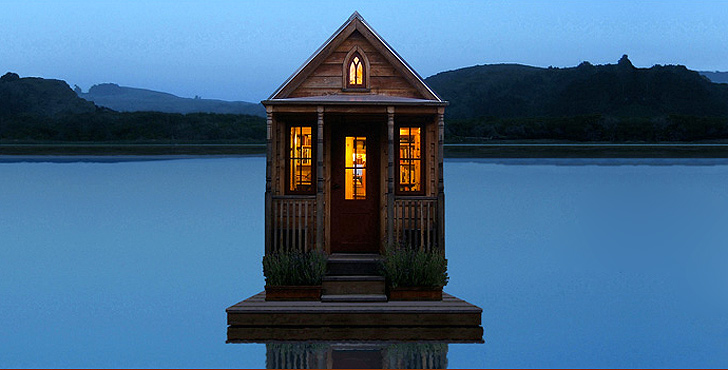
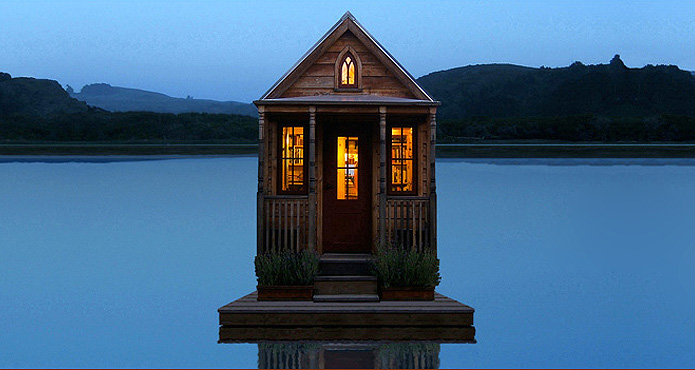
.

diff --git a/index.html b/index.html
@@ -17,7 +17,7 @@
 
 <body>
 
-	<div class="main-area center-text" style="background-image:url(images/rondavel2.jpg);">
+	<div class="main-area center-text" style="background-image:url(images/tiny-house-bkg.jpg);">
 
 		<div class="display-table">
 			<div class="display-table-cell">
